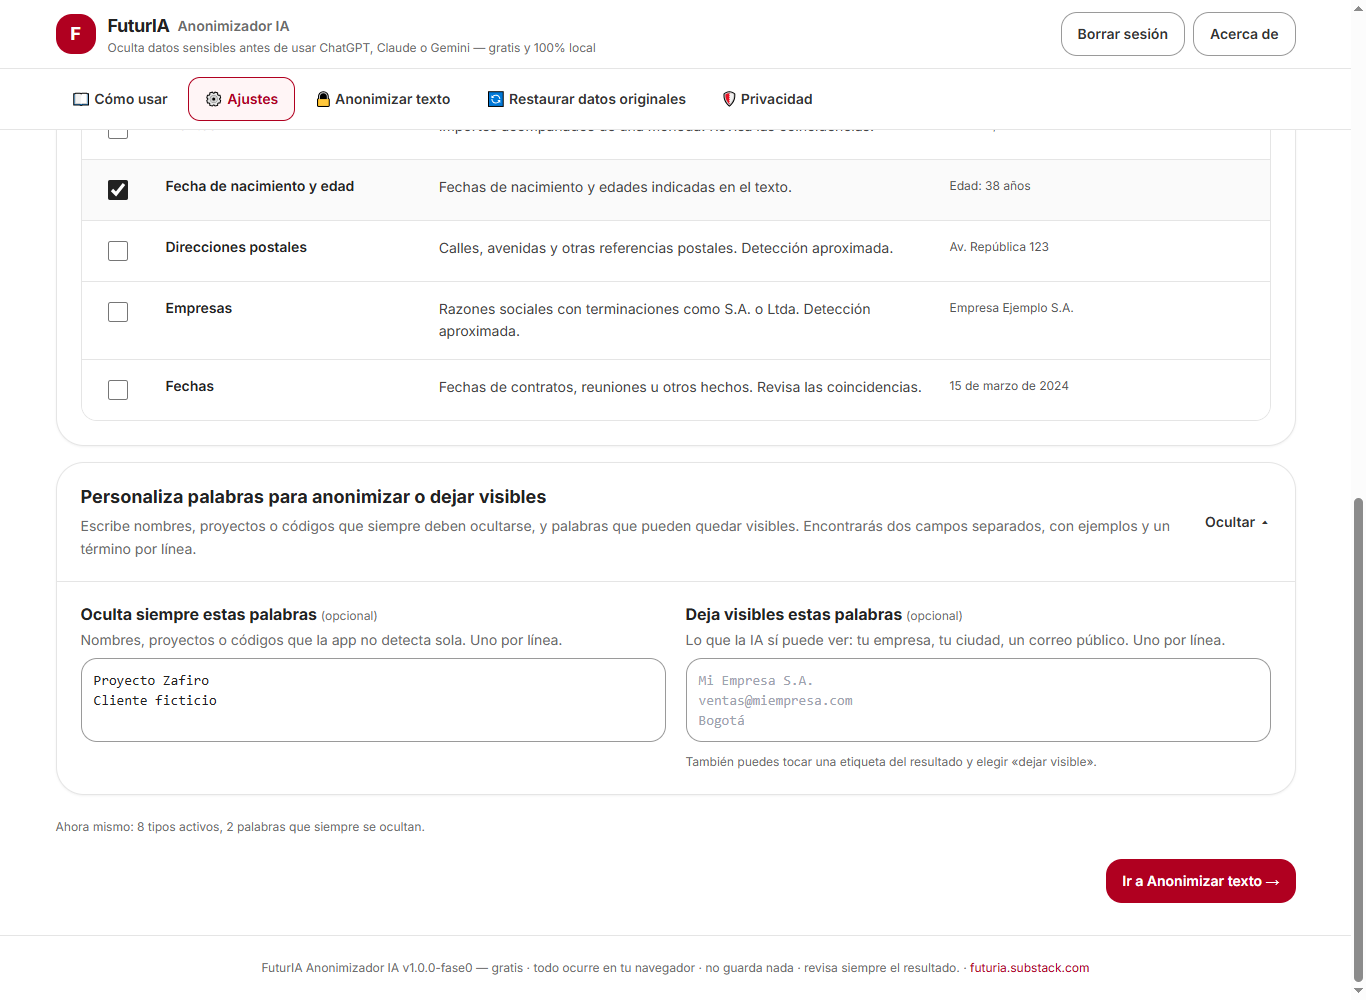
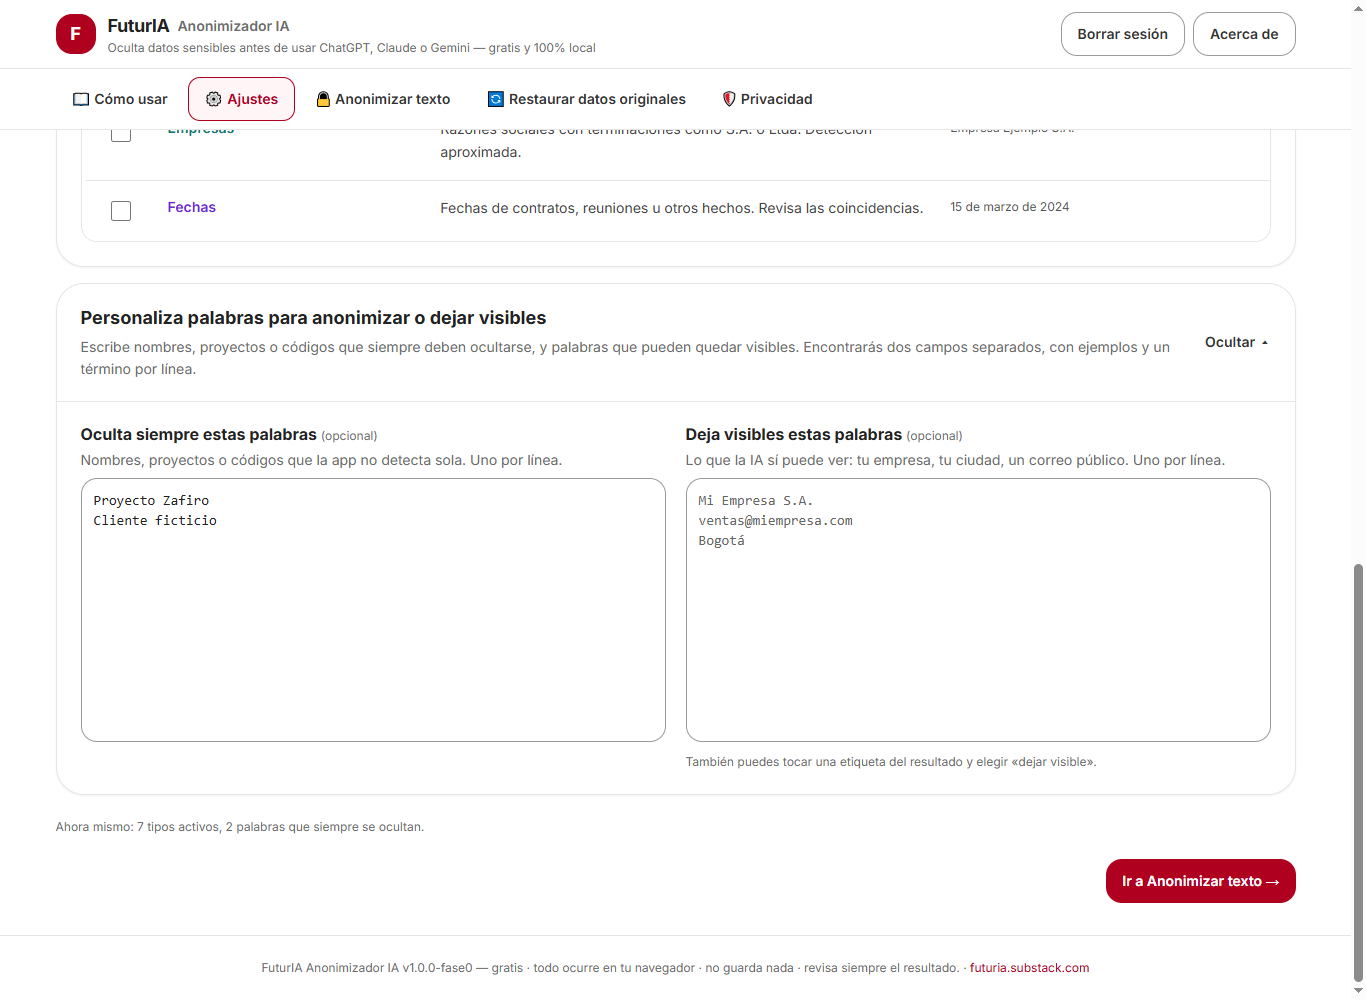
Ajustes con color y 12 líneas; claves editables con aviso; intervalos para conservar estilo textual

diff --git a/index.html b/index.html
@@ -146,7 +146,7 @@ const CATS = [
     label: 'Credenciales y API keys',
     ex: 'api_key=abc123, «redacted:sk_live_…», password: secreta',
     color: '#dc2626', bg: '#fef2f2', border: '#fecaca', tag: 'CREDENCIAL', icon: '🔑',
-    on: true, alwaysOn: true,
+    on: true,
     pats: [
       /\b(?:sk_live|sk_test|sk_proj)[A-Za-z0-9_\-]{10,}/g,
       /\b(?:api[_\-]?key|api[_\-]?secret|access[_\-]?token|auth[_\-]?token|client[_\-]?secret|password|contraseña|clave(?: de acceso)?)(?:\s*[:=]\s*|[\t ]+(?![:=]))(?:"(?:\\[\s\S]|[^"\\])*"|'(?:\\[\s\S]|[^'\\])*'|[^\s'"]+)/gi,
@@ -367,7 +367,7 @@ function overlapsRange(ranges, start, end) {
 // ─── Lógica de anonimización ──────────────────────────────────────────────────
 function runAnonymize(text, activeCats, customTerms, options = {}) {
   const source = String(text || '');
-  const reps = [], candidates = [], selected = [];
+  const reps = [], candidates = [], selected = [], edits = [];
   const protectedTags = [...source.matchAll(/\[[A-Z_]+_\d+\]/g)].map(m => ({ start: m.index, end: m.index + m[0].length }));
   const usedTags = new Set(source.match(/\[[A-Z_]+_\d+\]/g) || []);
   const whitelistRanges = buildWhitelistRanges(source, options.whitelist);
@@ -438,10 +438,11 @@ function runAnonymize(text, activeCats, customTerms, options = {}) {
       reps.push(rep); repByTag.set(tag, rep);
     }
     repByTag.get(tag).count += 1;
+    edits.push({ start: item.start, end: item.end, replacement: tag });
     out += source.slice(cursor, item.start) + tag;
     cursor = item.end;
   }
-  return { out: out + source.slice(cursor), reps };
+  return { out: out + source.slice(cursor), reps, edits };
 }
 
 // ─── Revisión residual: usa los mismos patrones que el motor ───────────────────
@@ -484,13 +485,13 @@ function canonicalTag(kind, num) {
 }
 function restoreTags(text, mapping) {
   const source = String(text || '');
-  const resolved = [], unresolved = new Set(), repaired = [];
+  const resolved = [], unresolved = new Set(), repaired = [], edits = [];
   const seen = new Set();
   // 1) Etiquetas exactas. 2) Variantes: espacios/guiones, minúsculas, sin corchetes, alias en inglés, espacios internos.
   // Sin corchetes solo se acepta un tipo conocido (en cualquier caja), para no tocar identificadores normales como foo_1.
   const knownKinds = [...new Set([...Object.keys(TAG_ALIASES), ...Object.values(TAG_ALIASES), 'PERSONA', 'EMAIL', 'URL', 'IP', 'CREDENCIAL', 'CUENTA', 'ID_FISCAL', 'TELEFONO', 'MONTO', 'NACIMIENTO', 'DIRECCION', 'EMPRESA', 'FECHA', 'PERSONALIZADO'])].sort((a, b) => b.length - a.length).join('|');
   const loose = new RegExp('\\[\\s*([A-Za-zÁÉÍÓÚÑáéíóúñ][A-Za-zÁÉÍÓÚÑáéíóúñ_\\s\\-]*?)[\\s_\\-]+(\\d+)\\s*\\]|(?<![\\p{L}\\p{N}_\\[])(' + knownKinds + ')_(\\d+)(?![\\p{L}\\p{N}_\\]])', 'giu');
-  const out = source.replace(loose, (whole, kindA, numA, kindB, numB) => {
+  const out = source.replace(loose, (whole, kindA, numA, kindB, numB, offset) => {
     const kind = kindA ?? kindB, num = numA ?? numB;
     const canonical = canonicalTag(kind.trim(), num);
     if (mapping[canonical] === undefined) {
@@ -499,9 +500,10 @@ function restoreTags(text, mapping) {
     }
     if (!seen.has(canonical)) { seen.add(canonical); resolved.push({ tag: canonical, value: mapping[canonical] }); }
     if (whole !== canonical) repaired.push({ found: whole, tag: canonical });
+    edits.push({ start: offset, end: offset + whole.length, replacement: String(mapping[canonical]) });
     return mapping[canonical];
   });
-  return { out, resolved, unresolved: [...unresolved], repaired };
+  return { out, resolved, unresolved: [...unresolved], repaired, edits };
 }
 
 // ─── Mapas TSV: JSON solo cuando el encabezado lo declara ─────────────────────
@@ -1271,7 +1273,7 @@ function HowToTab({ onStart }) {
       desc: 'En «Anonimizar texto», pega el texto o sube un PDF, Word, TXT o CSV. Si prefieres probar primero, pulsa «Cargar un ejemplo» y elige uno de los 50 textos con datos inventados.',
       tip: 'Los PDF escaneados (fotos) no tienen texto que leer. Conviértelos con una herramienta de tu empresa; no los subas a un convertidor en línea.' },
     { n: '2', icon: '⚙', title: 'Revisa los Ajustes (opcional)',
-      desc: 'En la pestaña «Ajustes», abre «Selecciona qué tipos de datos ocultar». Lo habitual ya viene marcado: personas, identificaciones de toda Hispanoamérica, teléfonos, correos, cuentas, claves y fecha de nacimiento. En «Personaliza palabras para anonimizar o dejar visibles» puedes añadir proyectos o clientes que siempre deban ocultarse, y palabras que pueden quedar visibles. Se hace una vez por sesión.',
+      desc: 'En la pestaña «Ajustes», abre «Selecciona qué tipos de datos anonimizar». Lo habitual ya viene marcado: personas, identificaciones de toda Hispanoamérica, teléfonos, correos, cuentas, claves y fecha de nacimiento. En «Personaliza palabras para anonimizar o dejar visibles» puedes añadir proyectos o clientes que siempre deban ocultarse, y palabras que pueden quedar visibles. Se hace una vez por sesión.',
       tip: 'Montos, direcciones, empresas y fechas se detectan por aproximación: si los activas, revisa el resultado con más cuidado.' },
     { n: '3', icon: '🔒', title: 'Pulsa «Anonimizar documento» y revisa',
       desc: 'Cada dato se cambia por una etiqueta como [PERSONA_1] o [EMAIL_1]; la misma persona recibe siempre la misma etiqueta. El aviso de color te dice si queda algo por ocultar. Lee el resultado, marca «Revisé el texto…» y se activan Copiar y Descargar.',
@@ -2743,13 +2745,13 @@ function CategoryPanel({ cats, onToggle, onPreset, customTerms, onCustomTerms, w
   const [showTypes, setShowTypes] = useState(false);
   const [showWords, setShowWords] = useState(false);
   const activeIds = cats.filter(c => c.on).map(c => c.id).sort().join(',');
-  const activePreset = PRESETS.find(p => [...new Set([...p.cats, ...cats.filter(c => c.alwaysOn).map(c => c.id)])].sort().join(',') === activeIds);
-  const fieldClass = "w-full rounded-2xl border border-[#9a9a9a] bg-white p-3 font-mono text-base sm:text-sm text-[#222222] outline-none transition focus:border-[#b00020] focus:ring-2 focus:ring-[#b00020] resize-none";
+  const activePreset = PRESETS.find(p => [...new Set(p.cats)].sort().join(',') === activeIds);
+  const fieldClass = "w-full rounded-2xl border border-[#9a9a9a] bg-white p-3 font-mono text-base sm:text-sm text-[#222222] placeholder:text-[#666666] outline-none transition focus:border-[#b00020] focus:ring-2 focus:ring-[#b00020] resize-none";
   // Orden estable: marcar una casilla no mueve su fila ni el foco.
   const ordered = cats;
   return (
     <div className="space-y-4">
-      <CollapsibleSection open={showTypes} onToggle={() => setShowTypes(v => !v)} id="settings-types" titleId="cats-title" title="Selecciona qué tipos de datos ocultar" subtitle="Marca nombres, teléfonos, correos, identificaciones y otros datos para sustituirlos por etiquetas. Puedes mantener la selección recomendada o adaptarla a tu documento.">
+      <CollapsibleSection open={showTypes} onToggle={() => setShowTypes(v => !v)} id="settings-types" titleId="cats-title" title="Selecciona qué tipos de datos anonimizar" subtitle="Marca nombres, teléfonos, correos, identificaciones y otros datos para sustituirlos por etiquetas. Puedes mantener la selección recomendada o adaptarla a tu documento.">
       <div>
         <div className="flex flex-wrap items-start justify-between gap-3">
           <div>
@@ -2762,7 +2764,7 @@ function CategoryPanel({ cats, onToggle, onPreset, customTerms, onCustomTerms, w
               return (
                 <button key={p.id} type="button" role="radio" aria-checked={!!selected} onClick={() => onPreset(p)} title={p.desc}
                   className={cn('rounded-full border px-3 py-1.5 text-xs font-semibold focus:outline-none focus-visible:ring-2 focus-visible:ring-[#b00020]',
-                    selected ? 'border-[#222222] bg-[#222222] text-white' : 'border-[#d4d4d4] bg-white text-[#333333] hover:border-[#222222]')}>
+                    selected ? 'border-[#b00020] bg-[#fff5f6] text-[#8c001a]' : 'border-[#d4d4d4] bg-white text-[#333333] hover:border-[#b00020]')}>
                   {p.label}
                 </button>
               );
@@ -2770,30 +2772,32 @@ function CategoryPanel({ cats, onToggle, onPreset, customTerms, onCustomTerms, w
             {!activePreset ? <span className="text-xs text-[#6b6b6b]">Personalizado</span> : null}
           </div>
         </div>
+        <p className="mt-3 text-sm leading-relaxed text-[#444444]" data-credentials-help>Recomendamos mantener activas «Claves y contraseñas»: pueden dar acceso a cuentas y servicios. Vienen marcadas por precaución, pero puedes desmarcarlas si tu tarea lo requiere.</p>
+        {!cats.find(c => c.id === 'credentials')?.on ? <p data-credentials-warning role="alert" className="mt-2 rounded-xl border border-[#fcd34d] bg-[#fffbeb] px-4 py-3 text-sm text-[#78350f]">Claves y contraseñas desactivadas: no se sustituirán automáticamente y podrían quedar visibles en el resultado que compartas. Comprueba que no haya ninguna clave real antes de copiar.</p> : null}
         <p className="mt-3 text-xs text-[#6b6b6b] sm:hidden">Desliza la tabla hacia los lados para ver la descripción y el ejemplo.</p>
         <div className="mt-4 max-w-full overflow-x-auto rounded-2xl border border-[#e5e5e5]" tabIndex={0} role="region" aria-label="Tabla de tipos de datos; desplazable horizontalmente">
           <table className="w-full min-w-[680px] table-fixed text-sm">
-            <caption className="sr-only">Tipos de datos que se anonimizarán. Marca o desmarca cada casilla; las claves permanecen siempre activas.</caption>
+            <caption className="sr-only">Tipos de datos que se anonimizarán. Marca o desmarca cada casilla. Recomendamos mantener activas las claves y contraseñas.</caption>
             <colgroup><col style={{ width: '72px' }} /><col style={{ width: '23%' }} /><col style={{ width: '43%' }} /><col /></colgroup>
-            <thead className="border-b border-[#d4d4d4] bg-[#f3f4f6] text-[#333333]">
+            <thead className="border-b border-[#f3c6cc] bg-[#fff5f6] text-[#7a1024]">
               <tr><th scope="col" className="px-2 py-3 text-center font-semibold">Ocultar</th><th scope="col" className="px-3 py-3 text-left font-semibold">Tipo de dato</th><th scope="col" className="px-3 py-3 text-left font-semibold">Qué se oculta</th><th scope="col" className="px-3 py-3 text-left font-semibold">Ejemplo</th></tr>
             </thead>
             <tbody id="cats-body">
               {ordered.map(c => {
                 const help = TYPE_HELP[c.id];
                 return (
-                  <tr key={c.id} className={cn('border-b border-[#e5e5e5] last:border-b-0', c.on ? 'bg-[#fafafa]' : 'bg-white')}>
-                    <td className="px-2 py-2 text-center align-top">
+                  <tr key={c.id} className="border-b border-[#e5e5e5] last:border-b-0" style={{ backgroundColor: c.on ? c.bg : '#fff' }}>
+                    <td className="px-2 py-2 text-center align-top" style={{ borderLeft: '4px solid ' + (c.on ? c.color : 'transparent') }}>
                       <label className="inline-flex min-h-[44px] min-w-[44px] items-center justify-center" htmlFor={'type-' + c.id}>
                         <span className="sr-only">{c.short || c.label}</span>
-                        <input id={'type-' + c.id} type="checkbox" checked={c.on} disabled={c.alwaysOn} onChange={() => onToggle(c.id)}
-                          aria-describedby={'type-desc-' + c.id + (c.alwaysOn ? ' type-always-' + c.id : '')}
-                          className="h-5 w-5 accent-[#222222] focus-visible:outline focus-visible:outline-2 focus-visible:outline-offset-2 focus-visible:outline-[#b00020] disabled:cursor-not-allowed" />
+                        <input id={'type-' + c.id} type="checkbox" checked={c.on} onChange={() => onToggle(c.id)}
+                          aria-describedby={'type-desc-' + c.id + (c.id === 'credentials' ? ' type-recommended-' + c.id : '')}
+                          style={{ accentColor: c.color }} className="h-5 w-5 focus-visible:outline focus-visible:outline-2 focus-visible:outline-offset-2 focus-visible:outline-[#b00020]" />
                       </label>
                     </td>
-                    <th scope="row" className="px-3 py-4 text-left align-top font-semibold text-[#222222]">
-                      <label htmlFor={'type-' + c.id} className={c.alwaysOn ? 'cursor-default' : 'cursor-pointer'}>{c.short || c.label}</label>
-                      {c.alwaysOn ? <span id={'type-always-' + c.id} className="mt-1 block text-xs font-normal text-[#555555]">Siempre activo</span> : null}
+                    <th scope="row" className="px-3 py-4 text-left align-top font-semibold" style={{ color: c.color }}>
+                      <label htmlFor={'type-' + c.id} className="cursor-pointer">{c.short || c.label}</label>
+                      {c.id === 'credentials' ? <span id={'type-recommended-' + c.id} className="mt-1 block text-xs font-normal text-[#555555]">Recomendado · tú decides</span> : null}
                     </th>
                     <td data-type-description id={'type-desc-' + c.id} className="px-3 py-4 align-top leading-relaxed text-[#444444]">{help.description}</td>
                     <td data-type-example className="break-words px-3 py-4 align-top text-xs leading-relaxed text-[#555555]">{help.example}</td>
@@ -2810,13 +2814,13 @@ function CategoryPanel({ cats, onToggle, onPreset, customTerms, onCustomTerms, w
         <div>
           <label htmlFor="custom-terms" className="block font-bold text-[#222222]">Oculta siempre estas palabras <span className="text-xs font-normal text-[#6b6b6b]">(opcional)</span></label>
           <p id="custom-help" className="mb-2 mt-1 text-sm text-[#6b6b6b]">Nombres, proyectos o códigos que la app no detecta sola. Uno por línea.</p>
-          <GrowingTextarea id="custom-terms" className={fieldClass} value={customTerms} onChange={e => onCustomTerms(e.target.value)}
+          <GrowingTextarea id="custom-terms" minRows={12} maxRows={24} className={fieldClass} value={customTerms} onChange={e => onCustomTerms(e.target.value)}
             placeholder={"Juan Pérez García\nProyecto Orión\nContrato-2024-XZ"} aria-describedby="custom-help" />
         </div>
         <div>
           <label htmlFor="whitelist" className="block font-bold text-[#222222]">Deja visibles estas palabras <span className="text-xs font-normal text-[#6b6b6b]">(opcional)</span></label>
           <p id="whitelist-help" className="mb-2 mt-1 text-sm text-[#6b6b6b]">Lo que la IA sí puede ver: tu empresa, tu ciudad, un correo público. Uno por línea.</p>
-          <GrowingTextarea id="whitelist" className={fieldClass} value={whitelist} onChange={e => onWhitelist(e.target.value)}
+          <GrowingTextarea id="whitelist" minRows={12} maxRows={24} className={fieldClass} value={whitelist} onChange={e => onWhitelist(e.target.value)}
             placeholder={"Mi Empresa S.A.\nventas@miempresa.com\nBogotá"} aria-describedby="whitelist-help" />
           <p className="mt-1.5 text-xs text-[#6b6b6b]">También puedes tocar una etiqueta del resultado y elegir «dejar visible».</p>
         </div>
@@ -2835,12 +2839,10 @@ function useSettings() {
   const [version, setVersion] = useState(0); // cambia con cada ajuste: WorkTab invalida su resultado
   const bump = () => setVersion(v => v + 1);
   const toggleCat = (id) => {
-    const cat = CATS.find(c => c.id === id);
-    if (cat && cat.alwaysOn) return;
     setCats(prev => prev.map(c => c.id === id ? Object.assign({}, c, { on: !c.on }) : c)); bump();
   };
-  const applyPreset = (preset) => { setCats(prev => prev.map(c => c.alwaysOn ? c : Object.assign({}, c, { on: preset.cats.includes(c.id) }))); bump(); };
-  const setCatsForTemplate = (templateCats) => { setCats(prev => prev.map(c => c.alwaysOn ? c : Object.assign({}, c, { on: c.id === 'person' || c.id === 'birthdate' || templateCats.includes(c.id) }))); bump(); };
+  const applyPreset = (preset) => { setCats(prev => prev.map(c => Object.assign({}, c, { on: preset.cats.includes(c.id) }))); bump(); };
+  const setCatsForTemplate = (templateCats) => { setCats(prev => prev.map(c => Object.assign({}, c, { on: c.id === 'credentials' || c.id === 'person' || c.id === 'birthdate' || templateCats.includes(c.id) }))); bump(); };
   const updateCustomTerms = v => { setCustomTerms(v); bump(); };
   const updateWhitelist = v => { setWhitelist(v); bump(); };
   const addCustomTerm = term => { setCustomTerms(prev => (prev.trim() ? prev.replace(/\s+$/, '') + '\n' : '') + term); bump(); };

diff --git a/README.md b/README.md
@@ -1,6 +1,6 @@
 # Anonimizador IA — FuturIA (App 7)
 
-> **Fase 0 y organización aprobada (2026-10-21): 245/245 sin fallos.** Herramienta **gratuita**, para equipos de empresa, genérica para toda Hispanoamérica. Una sola vista de trabajo (texto o documento), misma etiqueta para la misma entidad, nombres en MAYÚSCULAS, identificadores de 19 países con dígito verificador, teléfonos y monedas locales, fecha de nacimiento, lista blanca, recuperación tolerante, llave de recuperación descargable, diálogos propios, popovers accesibles y visor legible en móvil. No se realizó deploy público en esta tanda.
+> **Fase 0 y organización aprobada (2026-10-21): 253/253 sin fallos.** Herramienta **gratuita**, para equipos de empresa, genérica para toda Hispanoamérica. Una sola vista de trabajo (texto o documento), misma etiqueta para la misma entidad, nombres en MAYÚSCULAS, identificadores de 19 países con dígito verificador, teléfonos y monedas locales, fecha de nacimiento, lista blanca, recuperación tolerante, llave de recuperación descargable, diálogos propios, popovers accesibles y visor legible en móvil. No se realizó deploy público en esta tanda.
 
 Oculta datos sensibles de la información de tu empresa **antes** de pegarla en ChatGPT,
 Claude, Gemini o cualquier otro modelo. El reemplazo es reversible: cada dato
@@ -15,7 +15,7 @@ app (React, Babel, Tailwind y la fuente desde CDN), así que sin conexión no ar
 ## Organización de la interfaz aprobada
 
 - **Cómo usar** sigue siendo la pestaña inicial. Solo «Por qué anonimizar antes de usar una IA» se muestra abierto. Debajo, como bloques independientes inicialmente plegados: «Tu texto no sale de tu navegador», «Cómo usar el Anonimizador IA» (seis pasos verticales), «Qué tipos de datos detecta» y «Glosario».
-- **Ajustes** ofrece una introducción visible y dos bloques inicialmente plegados con explicación visible: «Selecciona qué tipos de datos ocultar» y **«Personaliza palabras para anonimizar o dejar visibles»** (título literal elegido por Sergio). Al desplegar el segundo aparecen los dos campos con sus ejemplos. Los valores sobreviven al plegado y al cambio de pestaña, no a una recarga del navegador.
+- **Ajustes** ofrece una introducción visible y dos bloques inicialmente plegados con explicación visible: «Selecciona qué tipos de datos anonimizar» y **«Personaliza palabras para anonimizar o dejar visibles»** (título literal elegido por Sergio). Al desplegar el segundo aparecen los dos campos con sus ejemplos. Los valores sobreviven al plegado y al cambio de pestaña, no a una recarga del navegador.
 - **Anonimizar texto** conserva una sola entrada a los ejemplos: «Cargar un ejemplo», que abre el selector. Tipos y palabras propias permanecen en Ajustes; el resultado ofrece el atajo «Ocultar también».
 - **Restaurar datos originales** y **Privacidad** completan la navegación. Cambiar Ajustes invalida el resultado anterior y conserva el texto.
 - La nueva sonda pruebas/sonda-organizacion.mjs prueba plegado, orden, título literal, campos, conservación y foco al escribir, selector de ejemplos y ausencia de desborde a 360 px. Capturas de los estados en pruebas/capturas-organizacion/.
@@ -24,7 +24,7 @@ app (React, Babel, Tailwind y la fuente desde CDN), así que sin conexión no ar
 
 «Empezar ahora» queda después del glosario, al final de Cómo usar, alineado a la derecha. «Ir a Anonimizar texto» queda al final de Ajustes, después de palabras personalizadas, también a la derecha y visible con los bloques plegados.
 
-Los tipos se seleccionan en una tabla de cuatro columnas: **Ocultar** (casilla), **Tipo de dato**, **Qué se oculta** y **Ejemplo**. Una fila por tipo, orden estable, claves siempre activas. Sustituye a las píldoras de categorías por petición explícita de Sergio. En móvil solo la tabla se desplaza horizontalmente; la página no desborda.
+Los tipos se seleccionan en una tabla de cuatro columnas: **Ocultar** (casilla), **Tipo de dato**, **Qué se oculta** y **Ejemplo**. Una fila por tipo, orden estable, claves activas por defecto y editables. Sustituye a las píldoras de categorías por petición explícita de Sergio. En móvil solo la tabla se desplaza horizontalmente; la página no desborda.
 
 El botón que ejecuta la transformación se llama **«Anonimizar documento»**, tanto para texto pegado como para archivos subidos. Se habilita cuando hay contenido válido y termina la carga. El paso a paso y las sondas usan el mismo nombre. «Personaliza palabras para anonimizar o dejar visibles» no cambió. El nombre de la pestaña «Cómo usar» sigue pendiente de elección; no se renombró.
 
@@ -91,10 +91,10 @@ node pruebas/sonda-app.mjs              # 30 · regresión general
 node pruebas/sonda-fase0.mjs            # 41 · Fase 0: flujo, diálogos, popovers, móvil
 node pruebas/sonda-correccion.mjs       # 13 · saltos de línea y límites de carga
 node pruebas/sonda-interfaz.mjs         # 24 · tamaños y ventana emergente
-node pruebas/sonda-organizacion.mjs     # 26 · plegables y organización aprobada
+node pruebas/sonda-organizacion.mjs     # 32 · plegables y organización aprobada
 ```
 
-**245 comprobaciones verificadas el 2026-10-21**, más un PDF de 12 páginas, contra el motor publicado y la app realmente servida por CDP: dependencias
+**253 comprobaciones verificadas el 2026-10-21**, más un PDF de 12 páginas, contra el motor publicado y la app realmente servida por CDP: dependencias
 pinneadas, Tailwind efectivamente aplicado, el flujo completo de anonimización,
 que ningún dato crudo quede en el bloque de salida, que la tabla de equivalencias
 sí conserve los originales (reversibilidad), que no haya peticiones a ningún
@@ -133,3 +133,8 @@ python pruebas/generar-pdf-parrafos.py pruebas/prueba-parrafos.pdf
 - Las sondas de navegador usan Chrome headless en el puerto **9334** (no 9333). Si `ejecutar-qa.mjs` falla con `fetch failed` en la primera sonda, falta ese Chrome, no el servidor.
 - PDF: `isEvalSupported: false`, mitigación recomendada por el advisory oficial de Mozilla `GHSA-wgrm-67xf-hhpq`; los recursos del documento se liberan después de extraer texto. Esto no equivale a una auditoría de todas las dependencias.
 - Pendiente: QA en móvil real, despliegue público (no realizado), cobertura de nombres más allá de contextos y un paquete completamente offline. No hay OCR ni históricos automáticos.
+
+
+### Ajustes y preparación de documentos (2026-10-21)
+
+La matriz se titula «Selecciona qué tipos de datos anonimizar» y usa color por categoría (casilla, nombre, borde y fondo suave al seleccionar). Claves y contraseñas vienen activas por precaución, pero ahora son editables con explicación y advertencia al desmarcarlas; probado que desactivarlas conserva el dato y reactivarlas vuelve a sustituirlo. Ambos campos personalizados muestran 12 líneas desde el inicio y crecen hasta 24; placeholders con contraste mejorado. Se añaden intervalos de sustitución a los resultados del motor para permitir remapear estilos sin duplicar originales. La descarga multiformato todavía está en desarrollo y no se declara entregada en esta tanda.
